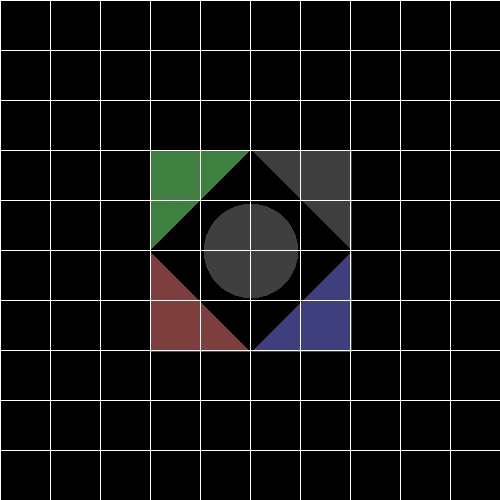
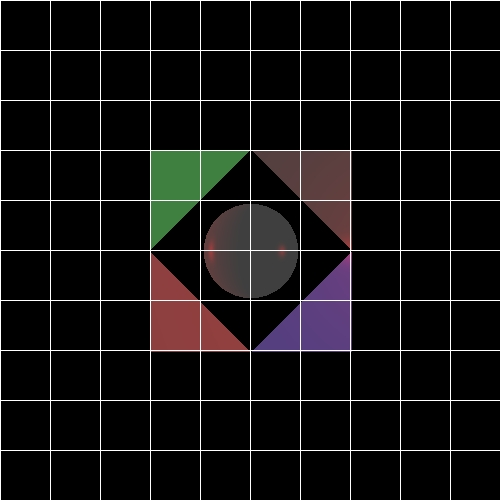
Found the issue. kd, ks, and shininess were all being set to 0 in Material's default constructor. which meant that none of the shapes would bounce any light back, which is why Lights appeared to do nothing.

Changed region(s): [[0.57, 0.3, 0.72, 0.72], [0.39, 0.42, 0.45, 0.57], [0.54, 0.48, 0.57, 0.51]]

diff --git a/src/renderer/Render.java b/src/renderer/Render.java
@@ -181,7 +181,9 @@ public class Render {
 			}
 
 			Color diffusedLight = new Color(diffusedLightRed/numberOfLights, diffusedLightBlue/numberOfLights, diffusedLightGreen/numberOfLights);
+			System.out.println("Diffused red: " + diffusedLight.getRed() + " blue: " + diffusedLight.getBlue() + " green: " + diffusedLight.getGreen());
 			Color specularLight = new Color(specularLightRed/numberOfLights, specularLightBlue/numberOfLights, specularLightGreen/numberOfLights);
+			System.out.println("Specular red: " + specularLight.getRed() + " blue: " + specularLight.getBlue() + " green: " + specularLight.getGreen());
 
 			//Combines them into a new color
 			Color combinedColor = new Color((ambientLight.getRed() + emissionLight.getRed() + diffusedLight.getRed() + specularLight.getRed())/4,
@@ -198,12 +200,27 @@ public class Render {
 	
 	private Color calcDiffuseComp(Double kd, Vector normal, Vector l, Color intensity) {
 		double factor = kd*(normal.dotProduct(l));
-		return new Color((int) (intensity.getRed()*factor), (int) (intensity.getGreen()*factor), (int) (intensity.getBlue()*factor));
+		System.out.println("Diffuse kd" + kd);
+		return scaleColor(intensity, factor);
+		//return new Color((int) (intensity.getRed()*factor), (int) (intensity.getGreen()*factor), (int) (intensity.getBlue()*factor));
 	}
 	
 	private Color calcSpecularComp(Double ks, Vector v, Vector normal, Vector l, int shininess, Color intensity) {
 		Vector r = l.subtract(normal.scale(2*l.dotProduct(normal)));
 		double factor = ks*Math.pow(v.normalize().dotProduct(r.normalize()), shininess);
-		return new Color((int) (intensity.getRed()*factor), (int) (intensity.getGreen()*factor), (int) (intensity.getBlue()*factor));
+		System.out.println("Diffuse ks" + ks);
+		return scaleColor(intensity, factor);
+		//return new Color((int) (intensity.getRed()*factor), (int) (intensity.getGreen()*factor), (int) (intensity.getBlue()*factor));
+	}
+	
+	public Color scaleColor(Color color, double factor) {
+		int newRed = ((int)(color.getRed()*factor) <= 255 ? (int)(color.getRed()*factor) : 255);
+		newRed = (newRed >= 0 ? newRed : 0);
+		int newGreen = ((int)(color.getGreen()*factor) <= 255 ? (int)(color.getGreen()*factor) : 255);
+		newGreen = (newGreen >= 0 ? newGreen : 0);
+		int newBlue = ((int)(color.getBlue()*factor) <= 255 ? (int)(color.getBlue()*factor) : 255);
+		newBlue = (newBlue >= 0 ? newBlue : 0);
+		
+		return new Color(newRed, newGreen, newBlue);
 	}
 }

diff --git a/src/unitTests/RenderTests.java b/src/unitTests/RenderTests.java
@@ -27,7 +27,7 @@ public class RenderTests {
 		//Sets up an empty list of lights
 		List<LightSource> lights = new ArrayList<LightSource>();
 		//Creates a spotlight to ass to our scene
-		SpotLight spotLight = new SpotLight(new Point3D(-10, 0, -5), new Vector(1, 0, -1), new Color(255, 0, 0));
+		SpotLight spotLight = new SpotLight(new Point3D(10, 0, -5), new Vector(-1, 0, -1), new Color(255, 0, 0));
 		lights.add(spotLight);
 		//Creates a sphere and some triangles around it 
 		Material material = new Material();

diff --git a/src/primitives/Material.java b/src/primitives/Material.java
@@ -13,9 +13,9 @@ public class Material {
 	//Constructors
 	//Default constructor
 	public Material() {
-		_kD = 0.0;
-		_kS = 0.0;
-		_nShininess = 0;
+		_kD = 0.8;
+		_kS = 0.99;
+		_nShininess = 50;
 	}
 	
 	public Material(double kd, double ks, int shininess) {
